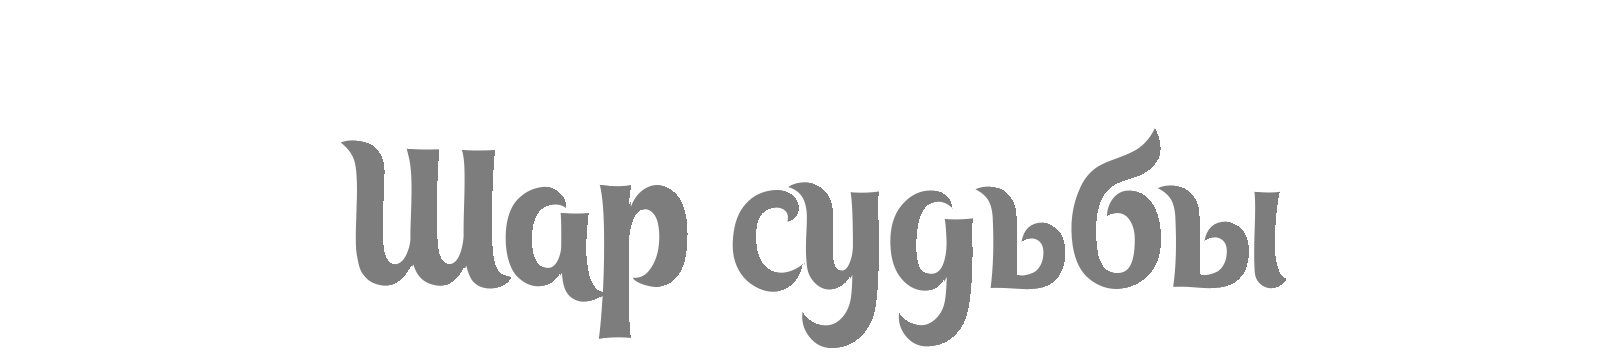
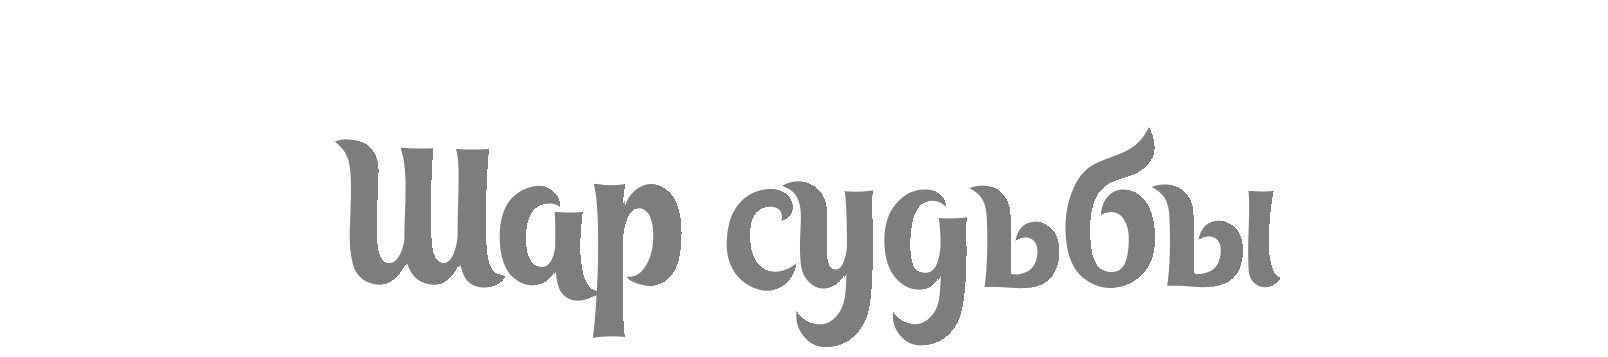
Полная замена index.html и всех файлов сайта

diff --git a/index.html b/index.html
@@ -79,8 +79,8 @@ body {
 
 /* ===== ЛОГО ===== */
 .logo {
-    width: 450px;
-    height: 100px;            /* фиксированная высота */
+    width: 550px;
+    height: 118px;            /* фиксированная высота */
     background-image: url('shar_2.png');
     background-size: contain;
     background-repeat: no-repeat;
